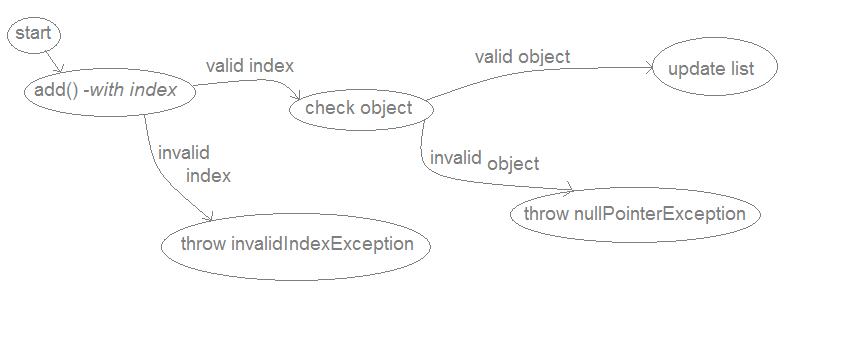
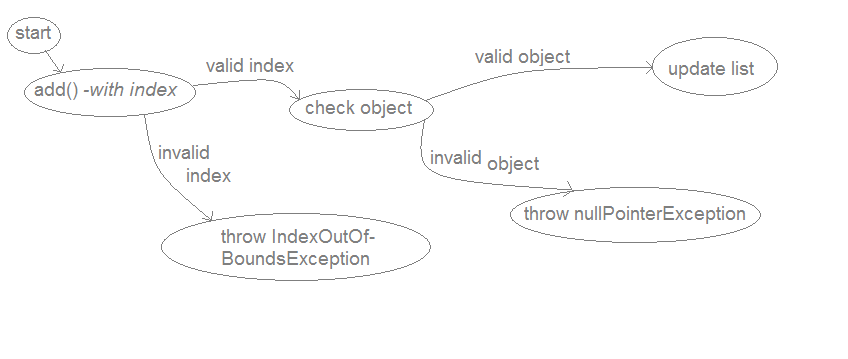
code added

Changed region(s): [[0.2146, 0.6435, 0.4906, 0.7354]]

diff --git a/code/src/Refactored/MyArrayList.java b/code/src/Refactored/MyArrayList.java
@@ -1,0 +1,92 @@
+package Refactored;
+
+/**
+ * Class with bugs.
+ *
+ *
+ */
+public class MyArrayList {
+    private Object[] list;
+    int nextFree;
+    // Creates a new empty list
+    public MyArrayList()
+    {
+        list = new Object[5];
+        nextFree = 0;
+    }
+
+    // Inserts object at the end of list
+    public void add(Object o)
+    {
+        if(o == null){
+            throw new NullPointerException("Error (add): Object o was null");
+        }
+        // check capacity
+        if (list.length <= nextFree)
+            list = getLongerList();
+        list[nextFree] = o;
+        nextFree++;
+    }
+    // Returns the number of objects in the list
+    public int size()
+    {
+        return nextFree;
+    }
+
+    // Returns a reference to the object at position index
+    // Throws IndexOutOfBoundsException
+    public Object get(int index)
+    {
+        if(index < 0 || nextFree < index)
+            throw new IndexOutOfBoundsException("Error (get): Invalid index" +
+                    index);
+        return list[index];
+    }
+
+    // Inserts object at position index
+    // Throws IndexOutOfBoundsException
+    public void add(int index, Object o)
+    {
+        if(index < 0 || nextFree < index)
+            throw new IndexOutOfBoundsException("Error (add): Invalid index" +
+                    index);
+        // check capacity
+        if (list.length <= nextFree)
+        list = getLongerList();
+        // Shift elements upwards to make position index free
+        // Start with last element and move backwards
+        for (int i = nextFree-1; i > index; i--) {
+            list[i] = list[i-1];
+        }
+        list[index] = o;
+    }
+
+    // Removes object at position index
+    // Returns a reference to the removed object
+    // Throws IndexOutOfBoundsException
+    public Object remove(int index)
+    {
+        if (index < 0 || nextFree <= index)
+            throw new IndexOutOfBoundsException("Error (remove): Invalid index"
+                    + index);
+
+        // Shift elements down to fill indexed position
+        // Start with first element
+        for (int i = index; i < nextFree-1; i++) {
+            list[i] = list[i+1];
+        }
+        nextFree--;
+        return list[index];
+    }
+
+    //============== private helper methods ==========
+    // create a list with double capacity and
+    // copy all elements to this
+    private Object[] getLongerList() {
+        Object[] tempList = new Object[list.length*2];
+        for (int i=0; i< list.length;i++) {
+            tempList[i] = list[i];
+        }
+        return tempList;
+    }
+}

diff --git a/code/src/Orig/MyArrayListWithBugs.java b/code/src/Orig/MyArrayListWithBugs.java
@@ -1,0 +1,89 @@
+package Orig;
+
+/**
+ * Class with bugs.
+ *
+ *
+ */
+public class MyArrayListWithBugs {
+    private Object[] list;
+    int nextFree;
+    // Creates a new empty list
+    public MyArrayListWithBugs()
+    {
+        list = new Object[5];
+        nextFree = 0;
+    }
+
+    // Inserts object at the end of list
+    public void add(Object o)
+    {
+        // check capacity
+        if (list.length <= nextFree)
+            list = getLongerList();
+        list[nextFree] = o;
+        nextFree++;
+    }
+    // Returns the number of objects in the list
+    public int size()
+    {
+        return nextFree;
+    }
+
+    // Returns a reference to the object at position index
+    // Throws IndexOutOfBoundsException
+    public Object get(int index)
+    {
+        if(index <= 0 || nextFree < index)
+            throw new IndexOutOfBoundsException("Error (get): Invalid index" +
+                    index);
+        return list[index];
+    }
+
+    // Inserts object at position index
+    // Throws IndexOutOfBoundsException
+    public void add(int index, Object o)
+    {
+        if(index < 0 || nextFree < index)
+            throw new IndexOutOfBoundsException("Error (add): Invalid index" +
+                    index);
+        // check capacity
+        if (list.length <= nextFree)
+        list = getLongerList();
+        // Shift elements upwards to make position index free
+        // Start with last element and move backwards
+        for (int i = nextFree-1; i > index; i--) {
+            list[i] = list[i-1];
+        }
+        list[index] = o;
+    }
+
+    // Removes object at position index
+    // Returns a reference to the removed object
+    // Throws IndexOutOfBoundsException
+    public Object remove(int index)
+    {
+        if (index < 0 || nextFree <= index)
+            throw new IndexOutOfBoundsException("Error (remove): Invalid index"
+                    + index);
+
+        // Shift elements down to fill indexed position
+        // Start with first element
+        for (int i = index; i < nextFree-1; i++) {
+            list[i] = list[i+1];
+        }
+        nextFree--;
+        return list[index];
+    }
+
+    //============== private helper methods ==========
+    // create a list with double capacity and
+    // copy all elements to this
+    private Object[] getLongerList() {
+        Object[] tempList = new Object[list.length*2];
+        for (int i=0; i< list.length;i++) {
+            tempList[i] = list[i];
+        }
+        return tempList;
+    }
+}

diff --git a/code/src/Refactored/MyArrayListTest.java b/code/src/Refactored/MyArrayListTest.java
@@ -1,0 +1,69 @@
+package Refactored;
+
+import static org.junit.jupiter.api.Assertions.assertEquals;
+import static org.junit.jupiter.api.Assertions.assertThrows;
+
+
+class MyArrayListTest {
+
+    @org.junit.jupiter.api.Test
+    void add() {
+        MyArrayList arrayList = new MyArrayList();
+        Object objectToAdd = new Object();
+        int sizeBefore = arrayList.size();
+        arrayList.add(objectToAdd);
+        int sizeAfter = arrayList.size();
+
+        assertThrows(NullPointerException.class, () -> {arrayList.add(null);});
+        assertEquals(sizeBefore + 1, sizeAfter);
+        assertEquals(arrayList.get(0), objectToAdd);
+    }
+
+    @org.junit.jupiter.api.Test
+    void size() {
+        MyArrayList arrayList = new MyArrayList();
+        int sizeBefore = arrayList.size();
+        arrayList.add(new Object());
+        int sizeAfter = arrayList.size();
+
+        assertEquals(0, sizeBefore);
+        assertEquals(sizeBefore + 1, sizeAfter);
+    }
+
+    @org.junit.jupiter.api.Test
+    void get() {
+        MyArrayList arrayList = new MyArrayList();
+        Object objectToAdd = new Object();
+        arrayList.add(objectToAdd);
+
+        assertEquals(arrayList.get(0), objectToAdd);
+        assertThrows(IndexOutOfBoundsException.class, () -> {arrayList.get(-1);});
+        assertThrows(IndexOutOfBoundsException.class, () -> {arrayList.get(2);});
+    }
+
+    @org.junit.jupiter.api.Test
+    void addWithIndex() {
+        MyArrayList arrayList = new MyArrayList();
+
+        Object objectToAdd = new Object();
+        arrayList.add(objectToAdd);
+
+        assertEquals(arrayList.get(0), objectToAdd);
+        assertThrows(IndexOutOfBoundsException.class, () -> {arrayList.add(2, new Object());});
+        assertThrows(IndexOutOfBoundsException.class, () -> {arrayList.add(-1, new Object());});
+    }
+
+    @org.junit.jupiter.api.Test
+    void remove() {
+        MyArrayList arrayList = new MyArrayList();
+
+        Object objectToAdd = new Object();
+        arrayList.add(objectToAdd);
+
+        assertEquals(objectToAdd, arrayList.get(0));
+        assertEquals(objectToAdd, arrayList.remove(0));
+        assertThrows(IndexOutOfBoundsException.class, () -> {arrayList.remove(-1);});
+        assertThrows(IndexOutOfBoundsException.class, () -> {arrayList.remove(0);});
+    }
+
+}
